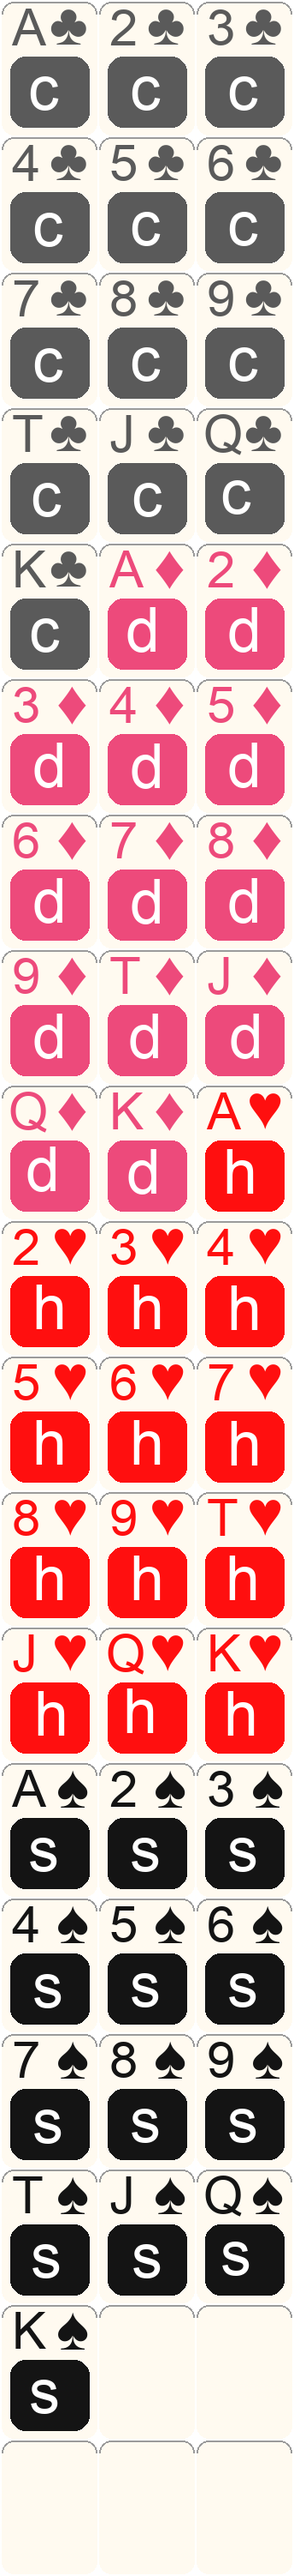
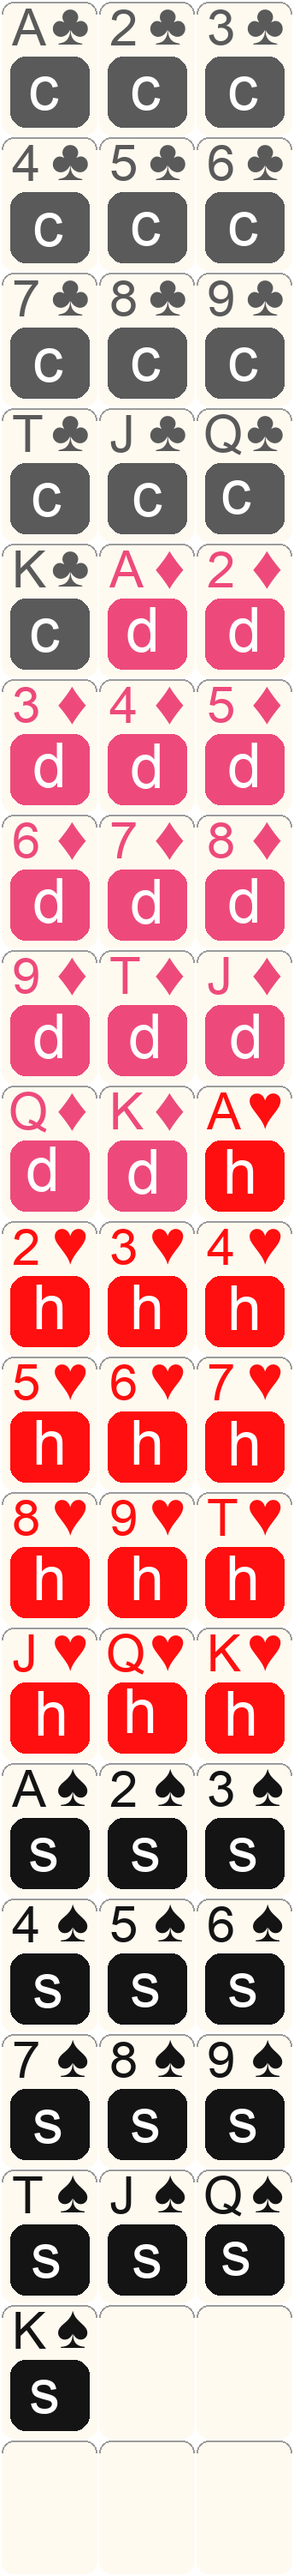
pile location box corner radius now scaled; adjust suit symbol position

diff --git a/src/scenes/game-scene.ts b/src/scenes/game-scene.ts
@@ -11,6 +11,9 @@ const OBJECT_SCALE = 1;
 // vertical gap between stacked cards i.e. in tableau
 const STACK_Y_GAP = 28 * UI_CONFIG.scale;
 
+// corner of card radius pixels
+const CARD_RADIUS = 7 * UI_CONFIG.scale;
+
 // horizontal random shift to make tableau less precise
 const maxShiftX = 0;
 
@@ -222,12 +225,10 @@ export class GameScene extends Phaser.Scene {
 
 
   #drawCardLocationBox(x: number, y: number): void {
+    // using grapics instead of rectangle GO because in Phaser 3.90 graphics offers rounded corners. 
     const graphics = this.add.graphics();
-    graphics.lineStyle(2, 0x000000, 0.3);
-    // corner radius = 7
-    graphics.strokeRoundedRect(x, y, CARD_WIDTH, CARD_HEIGHT, 7);
-    // const box = this.add.rectangle(x, y, CARD_WIDTH, CARD_HEIGHT).setOrigin(0)
-    // box.setStrokeStyle(1, 0x000000, 0.5);
+    graphics.lineStyle(2, 0x000000, 0.5);
+    graphics.strokeRoundedRect(x, y, CARD_WIDTH, CARD_HEIGHT, CARD_RADIUS);
   }
 
 
@@ -261,20 +262,6 @@ export class GameScene extends Phaser.Scene {
   }
 
 
-  // #drawCardTopBorder(x: number, y: number): Phaser.GameObjects.Graphics {
-  //   const border = this.add.graphics();
-  //   border.lineStyle(1, 0x000000, 0.3);
-  //   border.beginPath();
-  //   border.arc(x + 7, y + 7, 7, Math.PI, Math.PI * 1.5);
-  //   border.arc(x + CARD_WIDTH - 7, y + 7, 7, Math.PI * 1.5, 0);
-  //   border.lineTo(x + CARD_WIDTH, y);
-  //   border.lineTo(x, y);
-  //   border.closePath();
-  //   border.strokePath();
-  //   return border;
-  // }
-
-
   #createDragEvents(): void {
     this.#createDragStartEventListener();
     this.#createOnDragEventListener();
@@ -297,8 +284,8 @@ export class GameScene extends Phaser.Scene {
         } else {
           gameObject.setDepth(2);
         }
-        // // update card objects alpha so we know which card is actively being dragged
-        // gameObject.setAlpha(0.8);
+        // update card alpha to show which card is being dragged
+        gameObject.setAlpha(0.8);
 
         // display shadow while dragging card
         this.#updateDraggedCardShadow(gameObject, SHADOW_DRAG_X, SHADOW_DRAG_Y, SHADOW_DRAG_INTENSITY);
@@ -356,7 +343,7 @@ export class GameScene extends Phaser.Scene {
         // if game object was not destroyed, still active, we need to update that GO's data to match where card was placed
         if (gameObject.active) {
           gameObject.setPosition(gameObject.getData('x') as number, gameObject.getData('y') as number);
-          // reset card game object's alpha since we are done moving the object
+          // reset card GO alpha since we are done moving it
           gameObject.setAlpha(1);
 
           // if card is part of a tableau, also move all the cards that are stacked on top of this card back to original location

diff --git a/dev/code/write_deck_resize.py b/dev/code/write_deck_resize.py
@@ -122,7 +122,10 @@ def generate_cards():
 
                 elif (suitLetter == 'c'):
                   topIndent = topIndent + 1 * scale
-                  rightIndent = rightIndent + 4 * scale
+                  rightIndent = rightIndent + 3 * scale
+
+                elif (suitLetter == 's'):
+                  topIndent = topIndent + (-1*scale)
 
                 elif (suitLetter == 'd'):
                   topIndent = topIndent + (0*scale)
